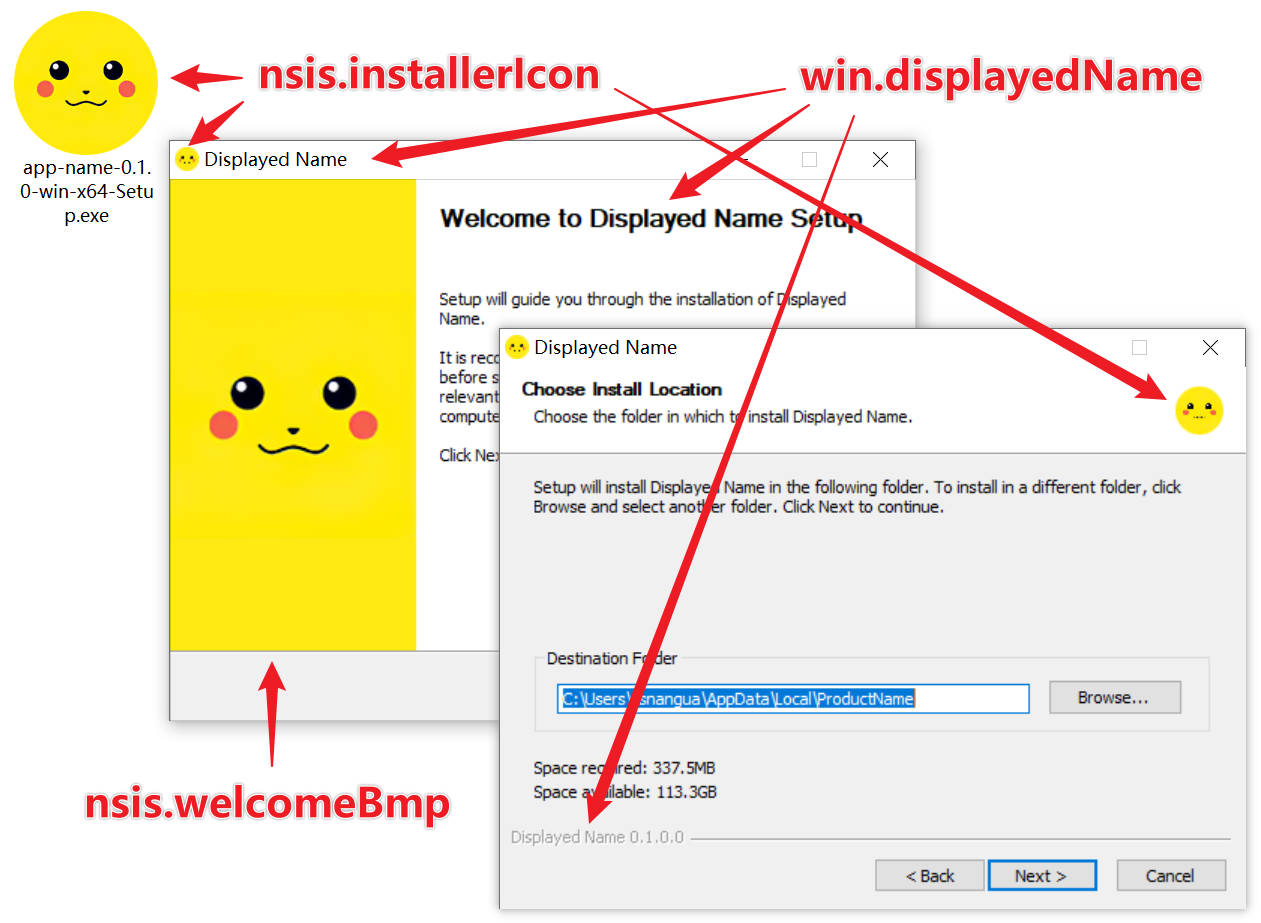
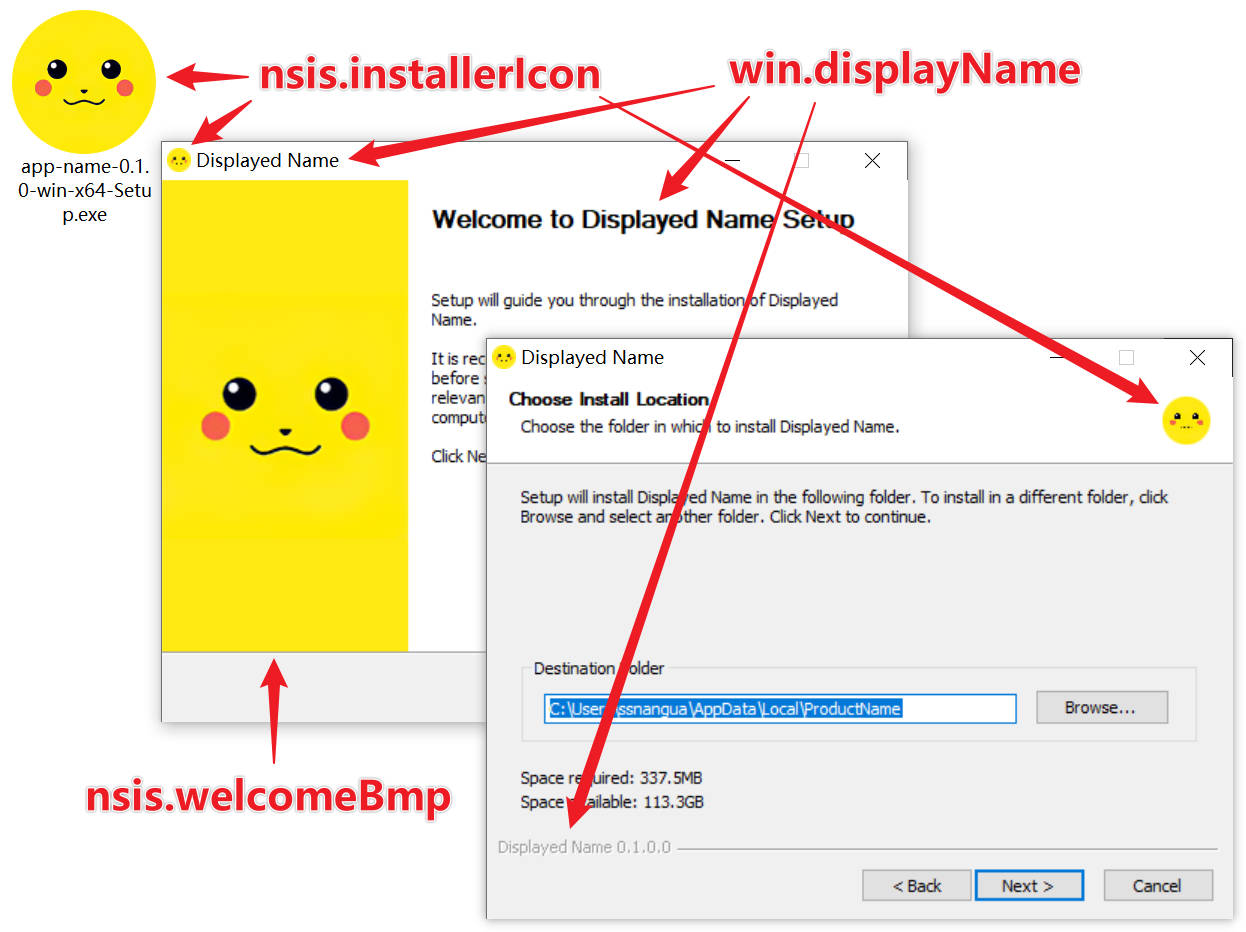
Change displayedName to displayName

diff --git a/src/lib/nsis-gen/NsisComposer.ts b/src/lib/nsis-gen/NsisComposer.ts
@@ -9,7 +9,7 @@ export interface INsisComposerOptions {
 
     // Basic.
     appName: string;
-    displayedName: string;
+    displayName: string;
     companyName: string;
     description: string;
     version: string;
@@ -68,8 +68,8 @@ LangString INSTALLING 1031 "Installiere"
             this.options.appName = 'NO_APPNAME';
         }
 
-        if(!this.options.displayedName) {
-            this.options.displayedName = 'NO_DISPLAYEDNAME';
+        if(!this.options.displayName) {
+            this.options.displayName = 'NO_DISPLAYNAME';
         }
 
         if(!this.options.companyName) {
@@ -128,7 +128,7 @@ ${ await this.makeUninstallSection() }`;
 ${ NsisComposer.DIVIDER }
 
 !define _APPNAME "${ this.options.appName }"
-!define _DISPLAYEDNAME "${ this.options.displayedName }"
+!define _DISPLAYNAME "${ this.options.displayName }"
 !define _COMPANYNAME "${ this.options.companyName }"
 !define _DESCRIPTION "${ this.options.description }"
 !define _VERSION "${ this.fixedVersion }"
@@ -149,9 +149,9 @@ ${ NsisComposer.DIVIDER }
 
 Unicode true
 
-Name "\${_DISPLAYEDNAME}"
-Caption "\${_DISPLAYEDNAME}"
-BrandingText "\${_DISPLAYEDNAME} \${_VERSION}"
+Name "\${_DISPLAYNAME}"
+Caption "\${_DISPLAYNAME}"
+BrandingText "\${_DISPLAYNAME} \${_VERSION}"
 ${
     this.options.icon
     ? `Icon "${ win32.normalize(resolve(this.options.icon)) }"`
@@ -183,7 +183,7 @@ ${ NsisComposer.DIVIDER }
 !include "MUI2.nsh"
 
 Function CreateDesktopShortcut
-    CreateShortcut "$DESKTOP\\\${_DISPLAYEDNAME}.lnk" "$INSTDIR\\\${_APPNAME}.exe"
+    CreateShortcut "$DESKTOP\\\${_DISPLAYNAME}.lnk" "$INSTDIR\\\${_APPNAME}.exe"
 FunctionEnd
 
 ${
@@ -286,7 +286,7 @@ ${ await this.makeInstallerFiles() }
 !insertmacro MUI_STARTMENU_WRITE_BEGIN "Application"
 
     CreateDirectory "$SMPROGRAMS\\$StartMenuFolder"
-    CreateShortcut "$SMPROGRAMS\\$StartMenuFolder\\\${_DISPLAYEDNAME}.lnk" "$INSTDIR\\\${_APPNAME}.exe"
+    CreateShortcut "$SMPROGRAMS\\$StartMenuFolder\\\${_DISPLAYNAME}.lnk" "$INSTDIR\\\${_APPNAME}.exe"
     CreateShortcut "$SMPROGRAMS\\$StartMenuFolder\\Uninstall.lnk" "$INSTDIR\\Uninstall.exe"
 
 !insertmacro MUI_STARTMENU_WRITE_END
@@ -310,11 +310,11 @@ RMDir /r "$INSTDIR"
 
 !insertmacro MUI_STARTMENU_GETFOLDER "Application" $StartMenuFolder
 
-Delete "$SMPROGRAMS\\$StartMenuFolder\\\${_DISPLAYEDNAME}.lnk"
+Delete "$SMPROGRAMS\\$StartMenuFolder\\\${_DISPLAYNAME}.lnk"
 Delete "$SMPROGRAMS\\$StartMenuFolder\\Uninstall.lnk"
 RMDir "$SMPROGRAMS\\$StartMenuFolder"
 
-Delete "$DESKTOP\\\${_DISPLAYEDNAME}.lnk"
+Delete "$DESKTOP\\\${_DISPLAYNAME}.lnk"
 
 DeleteRegKey HKCU "Software\\\${_APPNAME}"
 

diff --git a/src/lib/Builder.ts b/src/lib/Builder.ts
@@ -586,7 +586,7 @@ export class Builder {
 
             // Basic.
             appName: config.win.productName,
-            displayedName: config.win.displayedName || config.win.productName,
+            displayName: config.win.displayName || config.win.productName,
             companyName: config.win.companyName,
             description: config.win.fileDescription,
             version: fixWindowsVersion(config.win.productVersion),
@@ -721,7 +721,7 @@ export class Builder {
 
             // Basic.
             appName: config.win.productName,
-            displayedName: config.win.displayedName || config.win.productName,
+            displayName: config.win.displayName || config.win.productName,
             companyName: config.win.companyName,
             description: config.win.fileDescription,
             version: fixWindowsVersion(config.win.productVersion),
@@ -789,7 +789,7 @@ export class Builder {
 
             // Basic.
             appName: config.win.productName,
-            displayedName: config.win.displayedName || config.win.productName,
+            displayName: config.win.displayName || config.win.productName,
             companyName: config.win.companyName,
             description: config.win.fileDescription,
             version: fixWindowsVersion(config.win.productVersion),

diff --git a/src/lib/config/WinConfig.ts b/src/lib/config/WinConfig.ts
@@ -2,7 +2,7 @@
 export class WinConfig {
 
     public productName: string = '';
-    public displayedName: string = '';
+    public displayName: string = '';
     public companyName: string = '';
     public fileDescription: string = '';
     public productVersion: string = '';

diff --git a/README.md b/README.md
@@ -16,7 +16,7 @@
 }
 ```
 
-- Features: `win.displayedName`, `nsis.installerIcon`, `nsis.welcomeBmp`
+- Features: `win.displayName`, `nsis.installerIcon`, `nsis.welcomeBmp`
 
 <img src="https://raw.githubusercontent.com/ssnangua/nwjs-builder-phoenix/HEAD/screenshots/features.jpg">
 
@@ -24,7 +24,7 @@
 {
   "build": {
     "win": {
-      "displayedName": "Displayed Name",
+      "displayName": "Displayed Name",
     },
     "nsis": {
       "installerIcon": "installer.ico",
